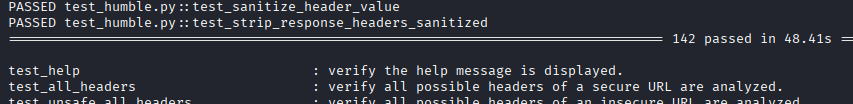
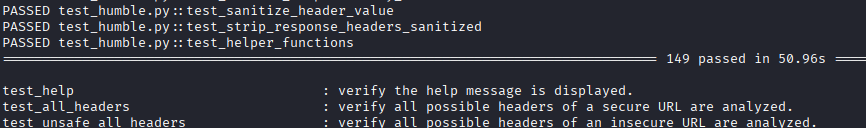
Feature: 99% code coverage

Changed region(s): [[0.0, 0.0, 1.0, 0.5192], [0.3658, 0.6346, 0.9449, 1.0], [0.0, 0.6346, 0.2438, 1.0]]

diff --git a/tests/test_humble.py b/tests/test_humble.py
@@ -71,7 +71,7 @@ EXTENDED_TAGS = ["[test_python_version]", "[test_missing_arguments]",
                  "[test_sanitize_header_value]",
                  "[test_strip_response_headers_sanitized]",
                  "[test_testssl_command]", "[test_testssl_command_declined]",
-                 "[test_testssl_analysis]"]
+                 "[test_testssl_analysis]", "[test_helper_functions]"]
 HUMBLE_TESTS_DIR = Path(__file__).parent
 HUMBLE_TEMP_HISTORY = HUMBLE_TESTS_DIR / "analysis_h.txt"
 HUMBLE_TEMP_PREFIX = "humble_"
@@ -354,6 +354,8 @@ TEST_CFGS = {
                               "non-recommended values"),
     "test_owasp_perfect_compliance": (["-u", TEST_URLS[9], "-c", "-if",
                                        PATHS["PERFECT_OWASP"]], "Nothing"),
+    "test_proxy_analysis": (["-u", f"{LOCAL_SERVER_URL}/status/200", "-p",
+                             LOCAL_SERVER_URL], "proxy specified"),
     "test_proxy_unreachable": (["-u", TEST_URLS[9], "-p", TEST_URLS[7]],
                                "reachable"),
     "test_redirects": (["-u", TEST_URLS[9], "-df"], "Analysis Grade:"),
@@ -378,6 +380,8 @@ TEST_CFGS = {
     ),
     "test_request_invalid_header": (
         ["-u", TEST_URLS[9], "-H", ""], "least"),
+    "test_request_unhandled_exception": (
+        ["-u", TEST_URLS[9], "-H", "humble: a\rb"], "Unhandled exception"),
     "test_response_headers": (["-u", TEST_URLS[9], "-r"],
                               "HTTP Response Headers"),
     "test_russian_block": (["-u", TEST_URLS[8]], "withdraws"),
@@ -450,6 +454,24 @@ SANITIZED_HEADERS = {
     "Server\\x9b31m": "nginx",
     "Content-Type": "text/html; charset=utf-8",
 }
+
+# Function, arguments and expected result for `test_helper_functions`
+HELPER_CASES = (
+    ("build_cicd_info", (["humble", "Note: a", "Note: b", "Note: c"],),
+     {"Note": ["a", "b", "c"]}),
+    ("calculate_trends", ([3, 3, 3, 3, 3],), "Stable"),
+    ("calculate_trends", ([1, 2, 3, 4, 5],), "Worsening"),
+    ("conall_parse", ('("https://a.com"), ("https://b.com")',),
+     (["https://a.com"], {"": ""})),
+    ("csp_valid_hash", ("sha256", "humble"), False),
+    ("decrease_html_spacing", ("humble",), "humble"),
+    ("permissions_valid_item", ('"https://a.com"',), True),
+    ("process_http_response", (None, None, None, False, None),
+     ({}, None, False, None, False, None, 0)),
+    ("valid_analysis_line", ("humble",), False),
+    ("valid_analysis_line", ("humble ; humble ; 1 ; 2 ; 3 ; 4 ; 5 ; 6",),
+     False),
+)
 
 # Required to access and mock internal functions in 'humble.py'
 _spec = importlib.util.spec_from_file_location("humble", HUMBLE_MAIN_FILE)
@@ -814,10 +836,10 @@ def test_print_detail_s():
 
 
 def test_proxy_wrong():
-    """Consolidate missing argument checks across proxy-related features."""
-    expected = ["Error:", "error:"]
-    run_test(["-p", "https://"], expected)
-    run_test(["-p", "http://127.0.0.1:test"], expected)
+    """Consolidate invalid host and port checks of the `-p` option."""
+    run_test(["-u", TEST_URLS[9], "-p", "https://"], "Invalid proxy format")
+    run_test(["-u", TEST_URLS[9], "-p", "http://127.0.0.1:test"],
+             "Invalid proxy port")
 
 
 def test_skip_file(tmp_path, monkeypatch):
@@ -1066,6 +1088,17 @@ def test_strip_response_headers_sanitized():
     assert dict(stripped) == SANITIZED_HEADERS
     assert all(k.isprintable() and v.isprintable()
                for k, v in stripped.items())
+
+
+def test_helper_functions():
+    """Verify helper functions handle unusual or malformed values."""
+    with suppress(SystemExit):
+        _spec.loader.exec_module(humble_module)
+    humble_module.l10n_main, humble_module.args = l10n_main, args
+    humble_module.l10n_map = l10n_map
+    results = tuple((name, values, getattr(humble_module, name)(*values))
+                    for name, values, _ in HELPER_CASES)
+    assert results == HELPER_CASES
 
 
 def delete_export_files(extension, ko_msg):

diff --git a/README.md b/README.md
@@ -23,7 +23,7 @@
 <a target="_blank" href="https://github.com/rfc-st/humble/actions/workflows/bandit-security-scan.yml" title="Vulnerability analysis with Bandit"><img src="https://github.com/rfc-st/humble/actions/workflows/bandit-security-scan.yml/badge.svg"></a>
 <a target="_blank" href="https://github.com/rfc-st/humble/actions/workflows/codeql-analysis.yml?query=workflow%3ACodeQL" title="Vulnerability analysis with CodeQL"><img src="https://github.com/rfc-st/humble/workflows/CodeQL/badge.svg"></a>
 <a target="_blank" href="https://humble.readthedocs.io/en/latest/" title="Status of documentation in 'Read The Docs'"><img src="https://img.shields.io/badge/documentation-passing-32bd50?labelColor=343b41"></a>
-<a target="_blank" href="https://github.com/rfc-st/humble/?tab=readme-ov-file#unit-tests" title="Code coverage with pytest-cov"><img src="https://img.shields.io/badge/code%20coverage-98%25-32bd50?labelColor=343b41"></a>
+<a target="_blank" href="https://github.com/rfc-st/humble/?tab=readme-ov-file#unit-tests" title="Code coverage with pytest-cov"><img src="https://img.shields.io/badge/code%20coverage-99%25-32bd50?labelColor=343b41"></a>
 <a target="_blank" href="https://github.com/rfc-st/humble/actions/workflows/vulture.yml" title="Dead Code analysis with vulture"><img src="https://img.shields.io/badge/vulture-passing-32bd50?labelColor=343b41"></a>
 <a target="_blank" href="https://github.com/rfc-st/humble/?tab=readme-ov-file#ai-assisted-review" title="How AI is used to review this tool"><img src="https://img.shields.io/badge/AI--assisted%20review-Claude%20Fable%205.1-blue?labelColor=343b41"></a>
 <a target="_blank" href="https://www.bestpractices.dev/projects/9543" title="Analysis of OpenSSF best practices"><img src="https://www.bestpractices.dev/projects/9543/badge"></a>
@@ -94,7 +94,7 @@
 :heavy_check_mark: Can display guidelines for enabling security HTTP response headers on popular frameworks, servers, and services.<br />
 :heavy_check_mark: Can exclude HTTP response headers across all analyses via [humble.skip](#global-humbleskip) file.<br />
 :heavy_check_mark: [AI](#AI)-driven security triage and remediation guidance.<br />
-:heavy_check_mark: Includes over 140 [unit tests](#unit-tests) to help verify it works correctly in your environment; requires <a href="https://pypi.org/project/pytest/" target="_blank">pytest</a> and <a href="https://pypi.org/project/pytest-cov/">pytest-cov</a>.<br />
+:heavy_check_mark: Includes nearly 150 [unit tests](#unit-tests) to help verify it works correctly in your environment; requires <a href="https://pypi.org/project/pytest/" target="_blank">pytest</a> and <a href="https://pypi.org/project/pytest-cov/">pytest-cov</a>.<br />
 :heavy_check_mark: Classes and functions documented at <a href="https://humble.readthedocs.io/en/latest/" target="_blank">Read the Docs</a>.<br />
 :heavy_check_mark: Code regularly audited with several quality, style and security [tools](#quality-style-and-security-tools).<br />
 :heavy_check_mark: Tested, one by one, on thousands of URLs.<br />

diff --git a/docs/index.md b/docs/index.md
@@ -46,7 +46,7 @@ Rafa *'Bluesman'* Faura Cucalón; you can read about me on <a href="https://www.
 - Can display fingerprint statistics for a specific term or the Top 20.
 - Can display guidelines for enabling security HTTP response headers on popular frameworks, servers, and services.
 - <a href="https://github.com/rfc-st/humble/#AI" target="_blank">AI</a>-driven security triage and remediation guidance.
-- Provides over 140 <a href="https://github.com/rfc-st/humble/#unit-tests" target="_blank">unit tests</a> to help verify it works correctly in your environment; requires <a href="https://pypi.org/project/pytest/" target="_blank">pytest</a> and <a href="https://pypi.org/project/pytest-cov/">pytest-cov</a>.
+- Provides nearly 150 <a href="https://github.com/rfc-st/humble/#unit-tests" target="_blank">unit tests</a> to help verify it works correctly in your environment; requires <a href="https://pypi.org/project/pytest/" target="_blank">pytest</a> and <a href="https://pypi.org/project/pytest-cov/">pytest-cov</a>.
 - Code regularly audited with several quality, style and security <a href="https://github.com/rfc-st/humble/?tab=readme-ov-file#quality-style-and-security-tools" target="_blank">tools</a>.<br />
 - Tested, one by one, on thousands of URLs.
 - Tested on Docker 26.1, Kali Linux 2021.1, macOS 14.2.1 and Windows 10 20H2.
